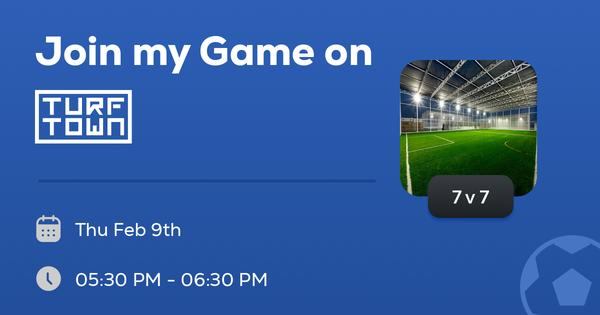
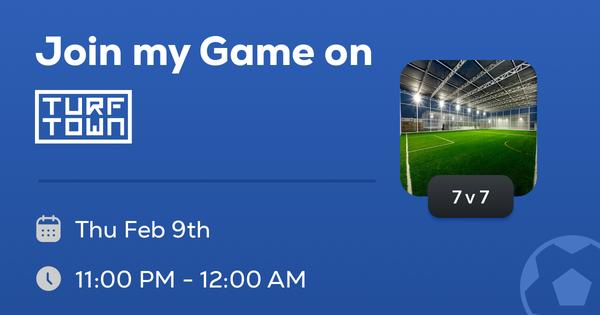
Changed Font size

Changed region(s): [[0.12, 0.8571, 0.51, 0.9143], [0.12, 0.6857, 0.36, 0.7714]]

diff --git a/main.py b/main.py
@@ -131,15 +131,15 @@ def image_endpoint():
     # Nexa-Text Regular
     
     draw.text((text_x, text_y), text, fill='white', font=font)
-    font = ImageFont.truetype('NexaText-Trial-Regular.ttf', 37)
+    font = ImageFont.truetype('NexaText-Trial-Regular.ttf', 47)
     if date is None:
         date = "Wed . Aug 21st"
-    draw.text((150, 435), date, fill='white', font=font)
-    font = ImageFont.truetype('NexaText-Trial-Regular.ttf', 37)
+    draw.text((150, 428), date, fill='white', font=font)
+    font = ImageFont.truetype('NexaText-Trial-Regular.ttf', 47)
 
     if time is None:
         time = "7:00 pm - 10:30 pm"
-    draw.text((150, 535), time, fill='white', font=font)
+    draw.text((150, 528), time, fill='white', font=font)
 
     if gameKind is None:
         gameKind = "Football"
